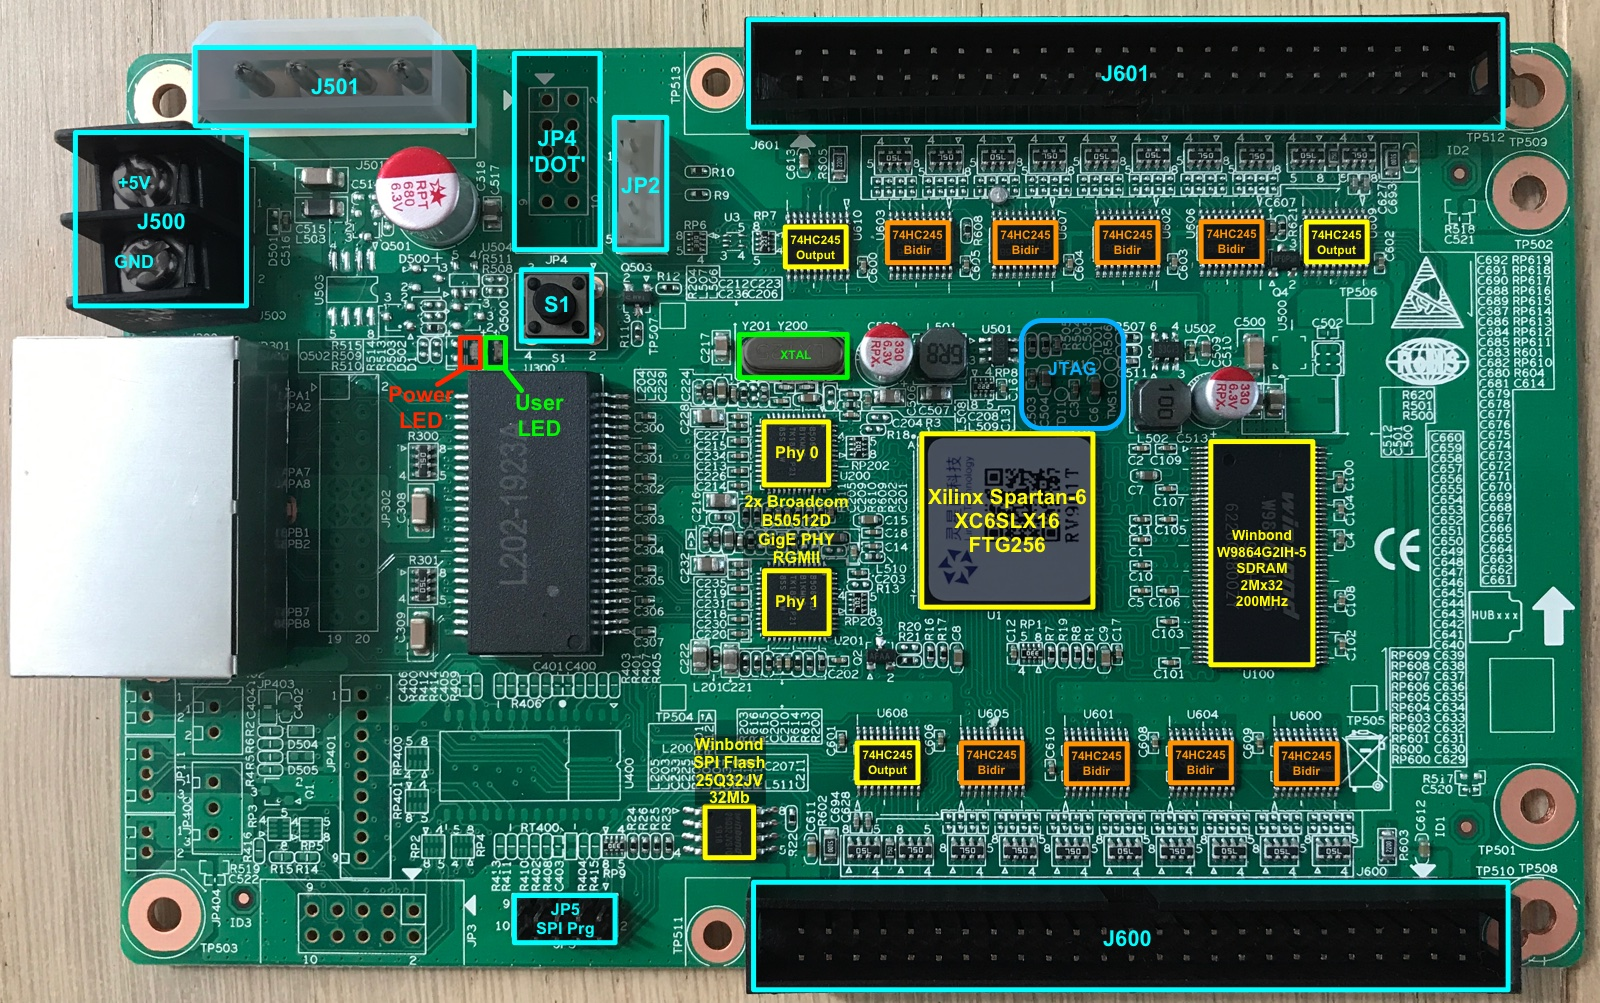
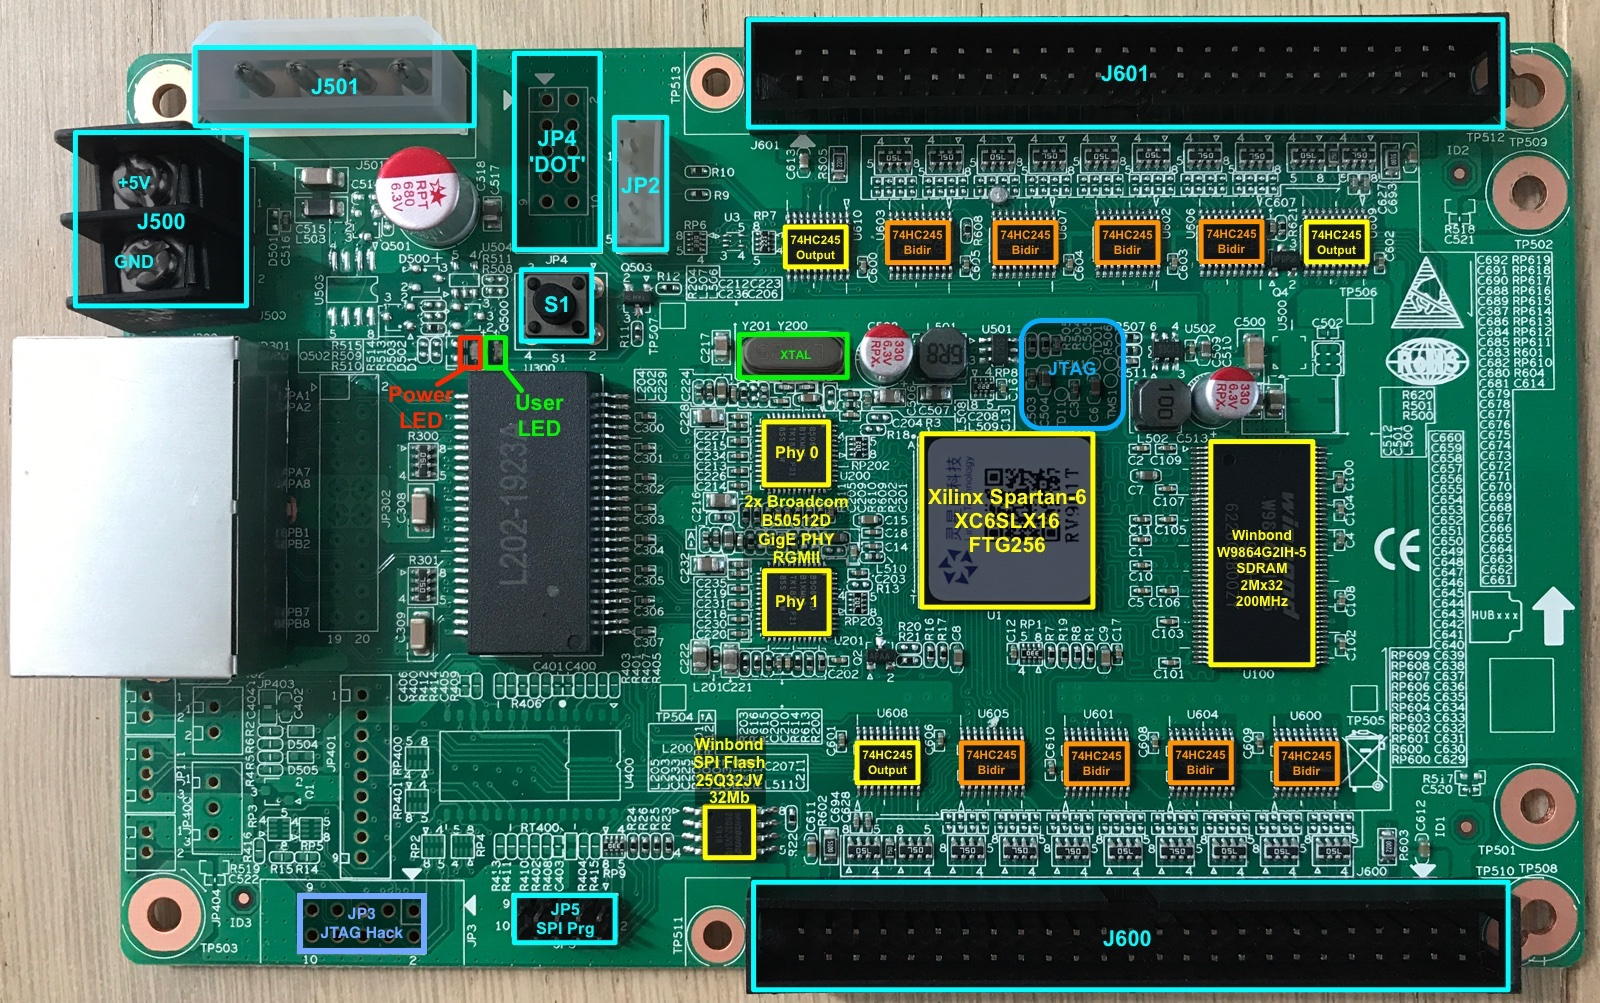
Improved JTAG via JP3 header

diff --git a/rv901t/doc/getting_started/getting_started_improved_jtag.md b/rv901t/doc/getting_started/getting_started_improved_jtag.md
@@ -1,0 +1,131 @@
+# Getting Started With the RV901T Board
+
+The RV901T is a controller board for LED displays, but it's also suitable
+for use as an FPGA development board since it has the following:
+
+* Spartan-6 FPGA (XC6LX16),
+* Serial flash,
+* 64 MBytes of SDRAM,
+* Two Gb Ethernet PHYs,
+* 25 MHz oscillator,
+* Numerous 5V I/O ports,
+* A single pushbutton,
+* A single LED.
+
+You can find out more about the RV901T at https://github.com/q3k/chubby75
+where a group of people are reverse-engineering the board.
+
+This document will provide the information you need to set up the board
+for doing FPGA development.
+
+
+## Getting Access to the FPGA JTAG pins
+
+During development, bitstreams are often downloaded into the FPGA through its JTAG port.
+However, the RV901T does not appear to have a physical JTAG port for
+attaching a downloading cable, so you'll have to physically modify the board.
+
+The FPGA JTAG pins are brought out to test points on the PCB:
+
+![FPGA JTAG test points (front)](jtag_test_points_front.jpg)
+
+These test points are also available on the back of the PCB.
+Unfortunately, they're covered with soldermask.
+Using a fine knife-point, you can scrape off the mask and expose the 
+test points as shown below:
+
+![FPGA JTAG test points (back)](jtag_test_points_back.jpg)
+
+Then, solder the JP3 header to the board and bend the JP3 pin4, 
+according to the picture, in order to avoid connect the 5V to the GND 
+lines when connecting the JTAG adapter.
+
+![JP3 Header Detail](improved_jtag_jp3_detail.jpg)
+
+Connect the exposed test points to the JP3 header pins in the solder side:
+
+![Improved JTAG connections](improved_jtag_connections.jpg)
+
+Once that's done, connect the JTAG cable as illustrated:
+
+![Improved JTAG to JP3](improved_jtag_jp3_cable.jpg)
+
+Once that's done, it's a good idea to label the header pins:
+
+![Header labels](improved_jtag_labels.jpg)
+
+Please note that the cable pin-1 (corresponding to the 3V3) 
+is not in the same position as the label:
+
+![Final Disposition](improved_jtag_orientation.jpg)
+
+
+## Applying Power
+
+The board can get power through the screw terminals:
+
+![Powering through the screw terminals](screw_terminal_power.jpg)
+
+or from a PC power supply through the Molex 8981 connector:
+
+![Powering through the Molex connector](molex_power.jpg)
+
+Once power is applied, a red LED will come on.
+The nearby pushbutton `S1` will make a green LED turn on and off
+as the button is pressed and released.
+
+![Green LED](green_led.jpg)
+
+
+## Testing the JTAG Connection
+
+Attach the downloading cable to the 5x2 header (in my case, I'm using a XILINX Platform Cable chinese clone):
+
+![Cable connection to the JTAG header](improved_jtag_cable.jpg)
+
+Then apply power to the RV901T board.
+The `STATUS` LED on the Platform Cable should turn green.
+
+![Platform Cable status is green](improved_jtag_adapter.jpg)
+
+Next, open XILINX ISE (that's the last version of the free XILINX tools
+that supports the Spartan-6 FPGAs) and start the `iMPACT` tool:
+
+![XILINX ISE and iMPACT](start_impact.png)
+
+In the `iMPACT` window, double-click the `Boundary Scan` flow:
+
+![](boundary_scan.png)
+
+Then, right-click in the `Boundary Scan` tab and select `Initialize Chain`:
+
+![](scan_chain.png)
+
+If all goes well, iMPACT should detect the Spartan-6 LX16 FPGA attached to the JTAG header:
+
+![](xc6slx16_detected.png)
+
+## LED Blink Test
+
+You are now ready to load a custom design in your RV910T.
+
+Let's start load a ready-made bitstream, included in this project, that simply blinks the green 
+LED once per second.
+
+* Click on the xc6slx16 FPGA icon in iMPACT. It will turn green if it wasn't already.
+* Right click on the FPGA icon and select "Assign New Configuration File"
+* Now select `./blink/ise/top.bit'
+* When asked "Do you want to attach an SPI or BPI PROM to this device?", answer "No"
+* Click again on the xc6slx16 FPGA to turn it green.
+* Select "Operations->Program" (or click the corresponding toolbar icon)
+* When asked about "Device Programming Properties", just click "Ok"
+
+If all went well, the bitstream will load into the device and your green LED will be blinking! Congratulations!
+
+## Next Steps
+
+Create your own designs!
+
+You can find the pin assignments of the FPGA  [here](https://github.com/q3k/chubby75/blob/master/doc/hardware.md).
+
+

diff --git a/rv901t/README.md b/rv901t/README.md
@@ -16,6 +16,7 @@ Documentation
 * [Reverse engineered HUB75B Hat Hardware Documentation](./doc/hub75b_hat.md)
 * [Reverse engineered HUB7EB Hat Hardware Documentation](./doc/hub75e_hat.md)
 * [Getting Started with the RV901T Board: JTAG Connector and LED blink](./doc/getting_started/getting_started.md)
+* [Getting Started with the RV901T Board: new Improved JTAG Connector and LED blink](./doc/getting_started/improved_jtag_getting_started.md)
 
 Hardware
 --------
@@ -38,6 +39,7 @@ Status
    - [X] J601
    - [ ] JP5 - SPI flash connector?
    - [X] JP4
+   - [X] JP3 - Improved JTAG Connector
    - [ ] JP2
    - [X] U100 - SDRAM
  - Migen integration:
